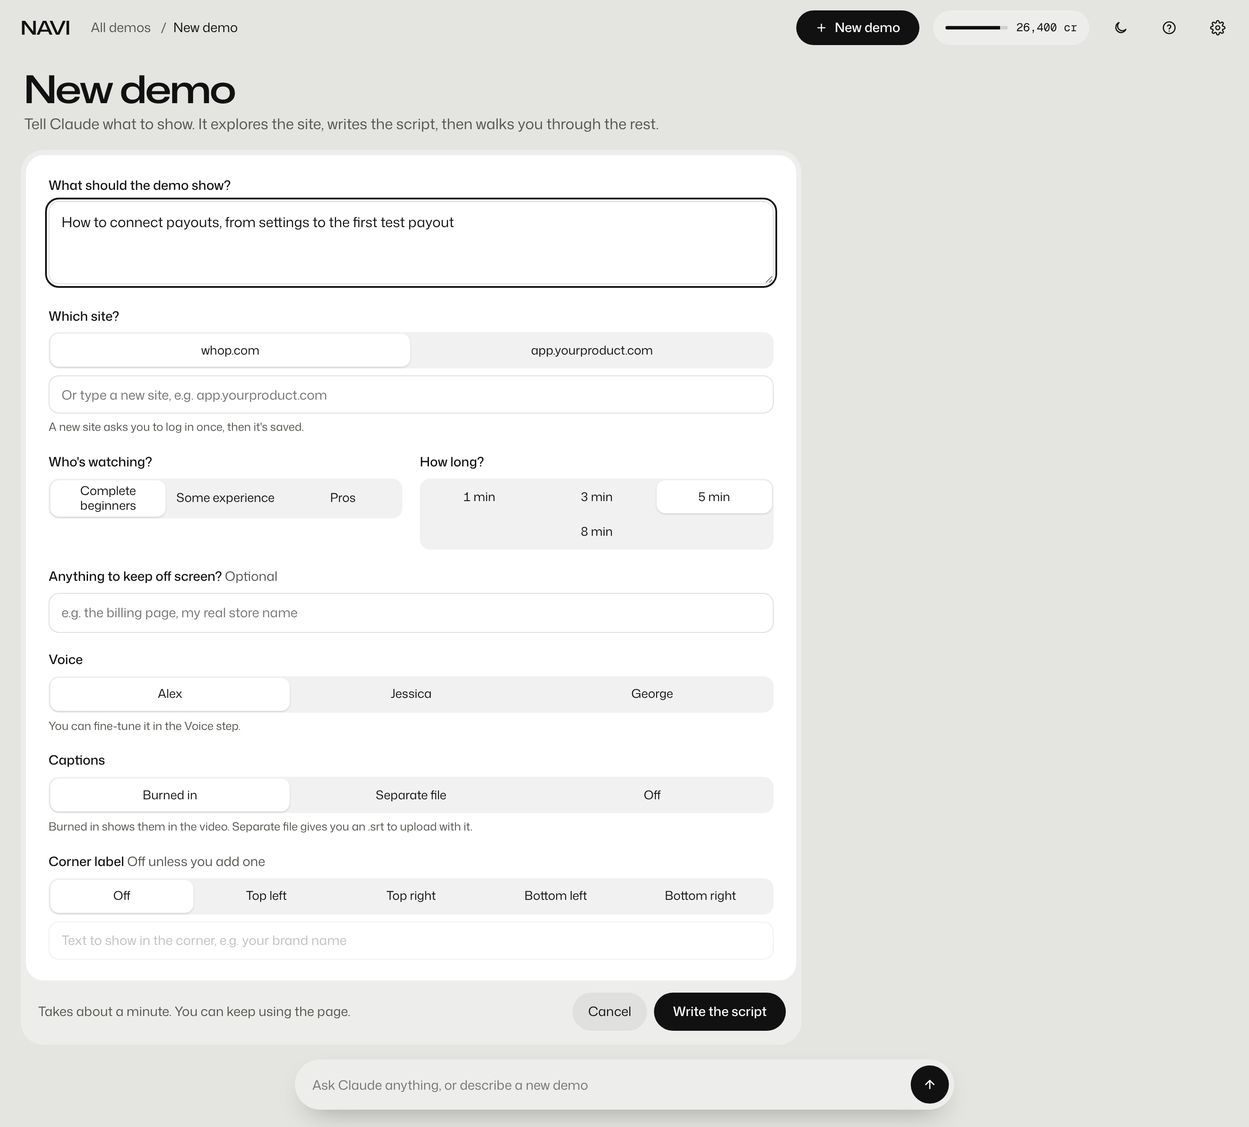
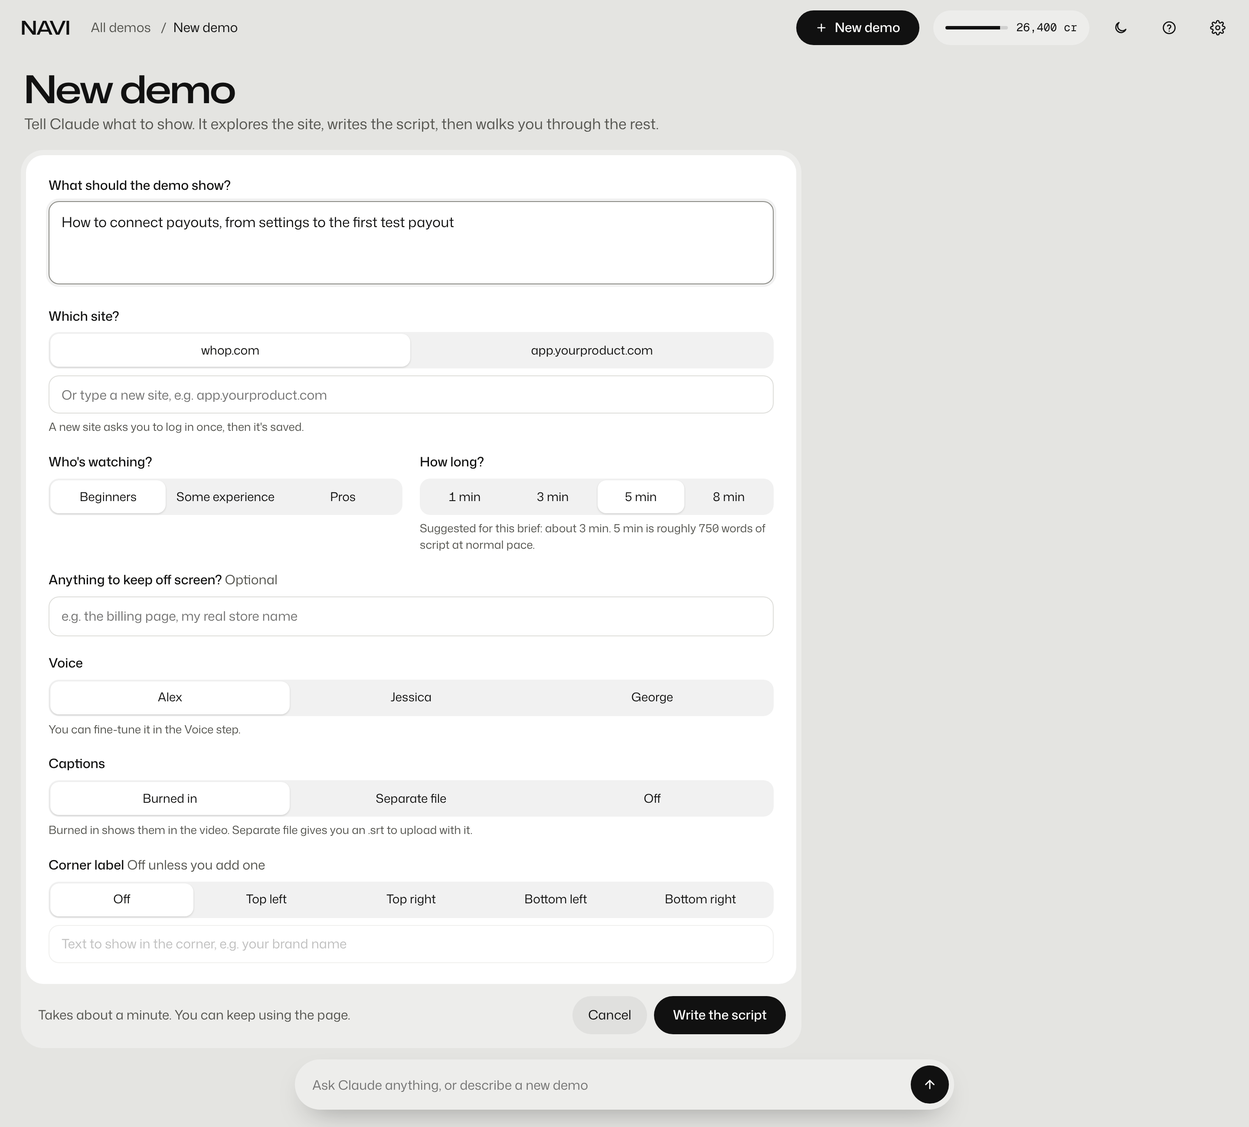
App: suggested length in the brief, length follows the pace slider, no white focus outlines or resize grip
Claude-Session: https://claude.ai/code/session_01BFv7MfEVZccWbSPoREnTz6

diff --git a/ui/app.js b/ui/app.js
@@ -87,12 +87,16 @@ class Component extends DCLogic {
     const markedSecs = Object.keys(D.notes || {}).filter((k) => D.notes[k].length);
     const unsure = (D.blurs || []).filter((b) => !b.s).length;
     const blurCount = 7 + Object.keys(st.shown).filter((k) => !st.shown[k]).length + st.hide.length;
+    const baseSec = [60, 180, this.total, 480][D.len] || this.total;
+    const lengthSec = Math.round(baseSec * 100 / v.pace);
+    const lengthText = this.fmt(lengthSec);
+    const paceText = (v.pace / 100).toFixed(2) + 'x';
     const kindName = { course: 'course walkthrough', saas: 'quick SaaS demo', tour: 'product tour' }[D.kind];
     const S = [
       { name: 'Script', sub: D.written ? '11 sections' : 'Writing…', title: 'Read the script', help: 'Left is what the voice says, with the ums and restarts that make it sound human. Right is what the captions show. Want a change? Type it in the bar below.', cta: 'Script looks right' },
       { name: 'Voice', sub: voicePretty, title: 'Pick the voice', help: 'Tap a face to pick it and hear it. The recommended settings are already on. Drag any slider to change how it sounds.', cta: 'Use ' + voicePretty },
       { name: 'Privacy', sub: blurCount + ' things blurred', title: 'Check what gets blurred', help: 'Blurring happens before recording, then every frame is checked again. Anything it isn’t sure about shows up in Review.', cta: D.recorded ? 'Blurs look right' : 'Blurs look right, record' },
-      { name: 'Record', sub: D.recorded ? 'Done, 4:56' : (st.cur === D.id && st.recPos < 11 && st.step === 3 ? 'Recording…' : 'Not yet'), title: D.recorded ? 'Recorded' : 'Recording', help: 'The browser runs the clicks while ' + voicePretty + ' talks. You can walk away.', cta: 'Watch the draft', second: D.recorded ? 'Record again' : '' },
+      { name: 'Record', sub: D.recorded ? 'Done, ' + lengthText : (st.cur === D.id && st.recPos < 11 && st.step === 3 ? 'Recording…' : 'Not yet'), title: D.recorded ? 'Recorded' : 'Recording', help: 'The browser runs the clicks while ' + voicePretty + ' talks. You can walk away.', cta: 'Watch the draft', second: D.recorded ? 'Record again' : '' },
       { name: 'Review', sub: marks ? marks + (marks === 1 ? ' mark' : ' marks') : (D.recorded ? 'No marks' : 'Not yet'), title: 'Watch the draft', help: 'Pause on anything that’s off and tap a reason, or say it your way. Only marked sections get redone.', cta: 'Approve and export', second: marks ? 'Redo marked sections' : '' },
       { name: 'Export', sub: D.exported ? 'MP4 + captions' : 'Not yet', title: 'Exported', help: 'Your video and captions are ready.', cta: 'Open folder', second: 'Back to all demos' }
     ];
@@ -148,7 +152,7 @@ class Component extends DCLogic {
       redo: { text: 'Redo ' + markedSecs.length + (markedSecs.length === 1 ? ' section' : ' sections') + ' for about ' + this.num(markedSecs.length * 420) + ' credits?', no: 'Cancel', yes: 'Redo them', act: () => { if (this.needKey()) return; this.spend(markedSecs.length * 420); this.patchDemo({ notes: {} }); this.setState({ confirm: null }); this.say('Redoing ' + markedSecs.length + (markedSecs.length === 1 ? ' section' : ' sections') + '. Draft 2 will be here in a few minutes.'); } }
     };
     const cf = st.confirm ? confirms[st.confirm] : null;
-    const foot = cf ? { text: cf.text, dot: 'var(--danger)', color: 'var(--ink)' } : (st.step === 4 ? { text: marks ? 'Redo ' + markedSecs.length + ' sections, about ' + this.num(markedSecs.length * 420) + ' credits' : (unsure ? unsure + ' blurs to check' : 'Nothing marked'), dot: marks || unsure ? '#E5484D' : 'var(--okDot)', color: 'var(--ink2)' } : { text: [D.written ? 'Approved' : 'Claude is writing the script', voicePretty + ', ' + kindName + ' settings', blurCount + ' things will be blurred', D.recorded ? 'Recorded 4:56' : 'Recording ' + st.recPos + ' of 11', '', D.exported ? 'Done' : ''][st.step], dot: 'var(--okDot)', color: 'var(--ink2)' });
+    const foot = cf ? { text: cf.text, dot: 'var(--danger)', color: 'var(--ink)' } : (st.step === 4 ? { text: marks ? 'Redo ' + markedSecs.length + ' sections, about ' + this.num(markedSecs.length * 420) + ' credits' : (unsure ? unsure + ' blurs to check' : 'Nothing marked'), dot: marks || unsure ? '#E5484D' : 'var(--okDot)', color: 'var(--ink2)' } : { text: [D.written ? 'Approved' : 'Claude is writing the script', voicePretty + ', ' + kindName + ' settings', blurCount + ' things will be blurred', D.recorded ? 'Recorded ' + lengthText : 'Recording ' + st.recPos + ' of 11', '', D.exported ? 'Done' : ''][st.step], dot: 'var(--okDot)', color: 'var(--ink2)' });
     const wsw = (done) => ({ bg: done ? 'var(--ink)' : 'transparent', fg: done ? 'var(--sheet)' : 'var(--ink)' });
     const w1 = wsw(st.keyRes === 'ok'), w2 = wsw(st.tools === 'done'), w3 = wsw(st.logged);
     const a = sw(st.caps), l = sw(st.lock), p = sw(st.p720);
@@ -159,7 +163,7 @@ class Component extends DCLogic {
       settings: () => { const prev = { vals: st.vals, hide: st.hide, shown: st.shown, defVoice: st.defVoice, defCap: st.defCap, defCorner: st.defCorner, defCornerText: st.defCornerText }; this.setState({ vals: Object.assign({}, this.presetVals.course), hide: [], shown: { email: false, phone: false, names: false, address: false, money: false, customers: false, counts: false, usage: true, prices: true, dates: true }, defVoice: 'alex', defCap: 'burn', defCorner: 'off', defCornerText: '' }); this.say('Settings reset', () => this.setState(prev)); }
     };
     const keyMsg = st.keyRes === 'ok' ? 'Connected. Starter plan, ' + this.num(st.credits) + ' of 30,000 credits left. Saved in your Mac’s Keychain.' : st.keyRes === 'bad' ? 'That key didn’t work. Check you copied all of it and it has text to speech access.' : '';
-    const videoCost = 4600; const leftAfter = Math.max(0, st.credits - (D.recorded ? 0 : videoCost));
+    const videoCost = Math.round(4600 * baseSec / this.total / 10) * 10; const leftAfter = Math.max(0, st.credits - (D.recorded ? 0 : videoCost));
     const chatClean = (m) => { let s = m.replace(/^(actually|no|ok|okay|wait)[,!.\s]*/i, '').replace(/^(make|do|change)( it| this)?( into)?( a)? demo (of|for|on|about)\s*/i, '').replace(/\s*instead[.!]*$/i, ''); return s.charAt(0).toUpperCase() + s.slice(1); };
     const dSel = (k) => ({ label: pretty(k), on: st.defVoice === k ? 'true' : 'false', pick: () => { this.setState({ defVoice: k }); this.say(pretty(k) + ' is now the default for new demos'); } });
     const capOpts = [['burn', 'Burned in'], ['file', 'Separate file'], ['off', 'Off']];
@@ -189,7 +193,7 @@ class Component extends DCLogic {
       bWhat: st.bWhat, onBWhat: (e) => this.setState({ bWhat: e.target.value }), bHide: st.bHide, onBHide: (e) => this.setState({ bHide: e.target.value }), bNew: st.bNew, onBNew: (e) => this.setState({ bNew: e.target.value }),
       briefEmpty: !st.bWhat.trim(),
       bSites: st.sites.map((s) => ({ label: s.u, on: !st.bNew.trim() && st.bSite === s.u ? 'true' : 'false', pick: () => this.setState({ bSite: s.u, bNew: '' }) })),
-      bWho: ['Complete beginners', 'Some experience', 'Pros'].map((s, i) => ({ label: s, on: st.bWho === i ? 'true' : 'false', pick: () => this.setState({ bWho: i }) })),
+      bWho: ['Beginners', 'Some experience', 'Pros'].map((s, i) => ({ label: s, on: st.bWho === i ? 'true' : 'false', pick: () => this.setState({ bWho: i }) })),
       bLen: ['1 min', '3 min', '5 min', '8 min'].map((s, i) => ({ label: s, on: st.bLen === i ? 'true' : 'false', pick: () => this.setState({ bLen: i }) })),
       bVoices: st.mine.map((k) => ({ label: pretty(k), on: st.bVoice === k ? 'true' : 'false', pick: () => this.setState({ bVoice: k }) })),
       bCaps: segOf(capOpts, st.bCap, (x) => this.setState({ bCap: x })),
@@ -203,6 +207,9 @@ class Component extends DCLogic {
       defCaps: segOf(capOpts, st.defCap, (x) => this.setState({ defCap: x })),
       defCorner: segOf(posOpts, st.defCorner, (x) => this.setState({ defCorner: x })),
       defCornerText: st.defCornerText, onDefCornerText: (e) => this.setState({ defCornerText: e.target.value }), defCornerOff: st.defCorner === 'off', defCornerOp: st.defCorner === 'off' ? 0.45 : 1,
+      lengthText: lengthText, paceText: paceText,
+      scriptLenLine: this.secs.length + ' sections, about ' + lengthText + ' at ' + paceText + ' pace. Drag Pace in the Voice step and this length changes with it.',
+      lenHint: (() => { const w = st.bWhat.trim(); if (!w) return 'Type what to show and Claude suggests a length.'; const steps = 1 + (w.match(/,| then | and /gi) || []).length; const mins = Math.max(1, steps + (st.bWho === 0 ? 1 : st.bWho === 2 ? -1 : 0)); const opts = [1, 3, 5, 8]; let best = 0; opts.forEach((o, i) => { if (Math.abs(o - mins) < Math.abs(opts[best] - mins)) best = i; }); const chosen = opts[st.bLen]; return 'Suggested for this brief: about ' + opts[best] + ' min. ' + chosen + ' min is roughly ' + this.num(chosen * 150) + ' words of script at normal pace.'; })(),
       cancelBrief: () => this.setState({ screen: st.editing ? 'demo' : 'home' }),
       submitBrief: () => {
         const w = st.bWhat.trim(); if (!w) return; const t = w.length > 34 ? w.slice(0, 32).replace(/\s+\S*$/, '') + '…' : w; const site = st.bNew.trim() || st.bSite || 'whop.com';
@@ -246,7 +253,7 @@ class Component extends DCLogic {
       tier2: [row('email', 'Email addresses'), row('phone', 'Phone numbers'), row('names', 'Real names and profile photos'), row('address', 'Addresses'), row('money', 'Revenue and money figures'), row('customers', 'Customer details'), row('counts', 'Follower and member counts')],
       tier3: [row('usage', 'Usage stats, like token usage'), row('prices', 'Prices on public pages'), row('dates', 'Dates')],
       recBadge: D.recorded ? 'Recorded' : 'Recording live', recBadgeDot: D.recorded ? 'var(--okDot)' : '#FF5A4E',
-      recHead: D.recorded ? 'All 11 sections recorded' : 'Section ' + Math.min(11, st.recPos + 1) + ' of 11', recLeft: D.recorded ? '4:56' : 'about ' + Math.max(1, Math.ceil((11 - st.recPos) * 0.3)) + ' min left',
+      recHead: D.recorded ? 'All 11 sections recorded' : 'Section ' + Math.min(11, st.recPos + 1) + ' of 11', recLeft: D.recorded ? lengthText : 'about ' + Math.max(1, Math.ceil((11 - st.recPos) * 0.3)) + ' min left',
       recPct: (D.recorded ? 100 : st.recPos / 11 * 100) + '%', recNote: D.recorded ? 'Want a fresh take? Record again redoes every section.' : 'You can close this page. Claude will tell you in chat when the draft is ready.',
       recRows: this.secs.map((s, i) => { const done = D.recorded || i < st.recPos; const now = !D.recorded && i === st.recPos; return { n: s.n, mark: done ? '✓' : now ? '•' : '', c: done || now ? 'var(--ink)' : 'var(--ink2)' }; }),
       revSecs: revSecs, noteDraft: st.noteDraft, onNote: (e) => this.setState({ noteDraft: e.target.value }),
@@ -258,7 +265,7 @@ class Component extends DCLogic {
       togglePlayer: () => { if (st.player) { this.stop('player'); this.setState({ player: false }); return; } this.setState({ player: true }); this.every('player', 250, () => { const t = this.state.revT + 1; if (t >= this.total) { this.stop('player'); this.setState({ player: false, revT: this.total }); return; } let s = 0; for (let i = 0; i < this.secs.length; i++) if (t >= this.starts[i]) s = i; this.setState({ revT: t, sel: s }); }); },
       blurs: (D.blurs || []).map((b) => ({ t: b.t, what: b.what, unsure: !b.s, done: !!b.s, status: b.s === 'keep' ? 'Kept blurred' : 'Shown', keep: () => this.patchDemo({ blurs: D.blurs.map((x) => x.id === b.id ? Object.assign({}, x, { s: 'keep' }) : x) }), show: () => this.patchDemo({ blurs: D.blurs.map((x) => x.id === b.id ? Object.assign({}, x, { s: 'show' }) : x) }), undo: () => this.patchDemo({ blurs: D.blurs.map((x) => x.id === b.id ? Object.assign({}, x, { s: '' }) : x) }) })),
       autoBlurNote: (blurCount - 1) + ' other kinds of thing were blurred automatically wherever they appeared.',
-      files: [{ n: base + '.mp4', s: '1080p, 4:58' + (dCap === 'burn' ? ', captions in' : '') }].concat(dCap !== 'off' ? [{ n: base + '.srt', s: 'captions' }] : []).concat([{ n: base + '.txt', s: 'transcript' }]).concat(st.p720 ? [{ n: base + ' (720p).mp4', s: 'preview' }] : []),
+      files: [{ n: base + '.mp4', s: '1080p, ' + lengthText + (dCap === 'burn' ? ', captions in' : '') }].concat(dCap !== 'off' ? [{ n: base + '.srt', s: 'captions' }] : []).concat([{ n: base + '.txt', s: 'transcript' }]).concat(st.p720 ? [{ n: base + ' (720p).mp4', s: 'preview' }] : []),
       p720On: p.onStr, p720Track: p.track, p720X: p.x, toggle720: () => this.setState({ p720: !st.p720 }),
       exportNote: 'Captions ' + capName[dCap] + (dCorner !== 'off' && dCornerText.trim() ? ', corner label \u201c' + dCornerText.trim() + '\u201d' : ', no corner label') + '. Saved in your Videos folder. Your marks on this demo were used to tune ' + voicePretty + '’s defaults for next time.',
       key: st.key, onKey: (e) => this.setState({ key: e.target.value, keyRes: null }), keyType: st.keyType, keyTypeLabel: st.keyType === 'password' ? 'Show' : 'Hide', toggleKeyType: () => this.setState({ keyType: st.keyType === 'password' ? 'text' : 'password' }),

diff --git a/ui/index.html b/ui/index.html
@@ -12,15 +12,22 @@
 [v-cloak]{display:none}
 
 body{margin:0}
-.t-light{--ground:#E4E4E1;--tray:#EDEDEB;--sheet:#FFFFFF;--ink:#111111;--ink2:#55554F;--line:#DEDEDA;--wash:rgba(17,17,17,0.06);--fill:rgba(17,17,17,0.13);--ok:#1D7A4A;--okDot:#1D9E5A;--warnBg:#FFF1D9;--warnInk:#6B4300;--markBg:#FFE3DC;--markInk:#9A2410;--danger:#B3261E;--screen:#0E0E10;color-scheme:light}
-.t-dark{--ground:#0C0C0E;--tray:#17171A;--sheet:#212125;--ink:#F2F2F0;--ink2:#AAAAA3;--line:#303035;--wash:rgba(242,242,240,0.07);--fill:rgba(242,242,240,0.15);--ok:#7FD9A2;--okDot:#3CCB7F;--warnBg:#3A2C10;--warnInk:#FFD892;--markBg:#3E1F18;--markInk:#FFB4A2;--danger:#FF8A80;--screen:#000000;color-scheme:dark}
+.t-light{--ground:#E4E4E1;--tray:#EDEDEB;--sheet:#FFFFFF;--ink:#111111;--ink2:#55554F;--line:#DEDEDA;--wash:rgba(17,17,17,0.06);--fill:rgba(17,17,17,0.13);--ok:#1D7A4A;--okDot:#1D9E5A;--warnBg:#FFF1D9;--warnInk:#6B4300;--markBg:#FFE3DC;--markInk:#9A2410;--danger:#B3261E;--screen:#0E0E10;--focus:#8A8A84;color-scheme:light}
+.t-dark{--ground:#0C0C0E;--tray:#17171A;--sheet:#212125;--ink:#F2F2F0;--ink2:#AAAAA3;--line:#303035;--wash:rgba(242,242,240,0.07);--fill:rgba(242,242,240,0.15);--ok:#7FD9A2;--okDot:#3CCB7F;--warnBg:#3A2C10;--warnInk:#FFD892;--markBg:#3E1F18;--markInk:#FFB4A2;--danger:#FF8A80;--screen:#000000;--focus:#6E6E76;color-scheme:dark}
 .wide{font-family:'Mona Sans',sans-serif;font-stretch:125%;font-weight:560;letter-spacing:-0.02em}
 .mono{font-family:'Geist Mono',ui-monospace,monospace;font-size:12px}
 button,input,textarea{font:inherit;color:inherit}
 button{cursor:pointer;transition:transform 90ms cubic-bezier(.22,1,.36,1),background-color 180ms ease,box-shadow 180ms ease,opacity 180ms ease}
 button:active{transform:scale(0.97)}
 button[disabled]{cursor:not-allowed}
-:focus-visible{outline:2px solid var(--ink);outline-offset:2px}
+:focus{outline:none}
+:focus-visible{outline:2px solid var(--focus);outline-offset:2px}
+input:focus-visible,textarea:focus-visible{outline:none}
+input,textarea{transition:border-color 160ms ease,box-shadow 160ms ease}
+input:focus,textarea:focus{border-color:var(--focus)!important;box-shadow:0 0 0 3px var(--wash)}
+#chatin:focus{box-shadow:none}
+textarea{resize:none}
+::selection{background:var(--fill)}
 .tray{background:var(--tray);border-radius:26px;padding:6px}
 .sheet{background:var(--sheet);border-radius:20px}
 .foot{display:flex;align-items:center;justify-content:space-between;gap:12px;padding:12px 12px 8px 14px;min-height:48px}
@@ -41,7 +48,7 @@ button[disabled]{cursor:not-allowed}
 .bar .bv{position:absolute;right:14px;top:50%;transform:translateY(-50%);width:92px;text-align:right;white-space:nowrap;pointer-events:none}
 .bar .rec{position:absolute;top:8px;bottom:8px;width:2px;margin-left:-1px;background:var(--ink);opacity:0.35;pointer-events:none}
 .bar input{position:absolute;inset:0;width:100%;height:100%;margin:0;opacity:0;pointer-events:none}
-.bar:focus-within{outline:2px solid var(--ink);outline-offset:2px}
+.bar:focus-within{outline:2px solid var(--focus);outline-offset:2px}
 .sw{width:46px;height:28px;border-radius:14px;border:0;padding:3px;display:inline-flex;flex:none}
 .sw span{width:22px;height:22px;border-radius:11px;background:#FFFFFF;transition:transform 220ms cubic-bezier(.28,1.4,.36,1)}
 .chip{display:inline-flex;align-items:center;gap:6px;height:32px;padding:0 12px;border-radius:999px;background:var(--wash);font-size:14px}
@@ -214,6 +221,7 @@ button[disabled]{cursor:not-allowed}
 </div>
 </div>
 <div v-if="scriptReady" style="display: contents">
+<p style="margin: -8px 0 16px; padding: 10px 14px; border-radius: 12px; background: var(--wash)">{{scriptLenLine}}</p>
 <div style="display: grid; grid-template-columns: 70px 1fr 1fr; gap: 0 18px">
 <span class="mono" style="color: var(--ink2); padding-bottom: 8px">Time</span><span style="font-weight: 500; padding-bottom: 8px">{{voiceName}} says</span><span style="font-weight: 500; padding-bottom: 8px">Captions show</span>
 <div v-for="r in script" style="display: contents">
@@ -285,6 +293,7 @@ button[disabled]{cursor:not-allowed}
 </div>
 </div>
 <div class="tray"><div class="sheet" style="padding: 14px 16px">
+<div style="display: flex; justify-content: space-between; margin-bottom: 4px"><span>Video length</span><span class="mono" style="font-size: 13px">about {{lengthText}} at {{paceText}}</span></div>
 <div style="display: flex; justify-content: space-between"><span>This video</span><span class="mono" style="font-size: 13px">~{{videoCostText}} cr</span></div>
 <div style="display: flex; justify-content: space-between; margin-top: 4px; color: var(--ink2)"><span>Left after</span><span class="mono" style="font-size: 13px">{{leftAfterText}} of 30,000</span></div>
 <div style="display: flex; gap: 2px; height: 6px; margin-top: 10px"><span :style="'width: ' + (usedPct) + '; background: var(--ink); border-radius: 3px'"></span><span :style="'width: ' + (thisPct) + '; background: ' + (voiceColor) + '; border-radius: 3px'"></span><span style="flex: 1; background: var(--wash); border-radius: 3px"></span></div>
@@ -358,7 +367,7 @@ button[disabled]{cursor:not-allowed}
 <div v-for="t in ticks" style="display: contents"><span aria-hidden="true" :style="'position: absolute; top: 8px; left: ' + (t) + '; width: 1px; height: 12px; background: var(--ink2); pointer-events: none'"></span></div>
 <div v-for="m in markPins" style="display: contents"><span aria-hidden="true" :style="'position: absolute; top: 2px; left: ' + (m) + '; width: 10px; height: 10px; margin-left: -5px; border-radius: 5px; background: #E5484D; pointer-events: none'"></span></div>
 </div>
-<span class="mono" style="font-size: 13px; color: var(--ink2)">4:56</span>
+<span class="mono" style="font-size: 13px; color: var(--ink2)">{{lengthText}}</span>
 </div>
 <div style="margin-top: 16px; padding: 12px 14px; border-radius: 14px; background: var(--wash)">
 <div style="display: flex; justify-content: space-between; align-items: center; gap: 12px"><span style="font-weight: 500">On screen</span><span style="font-size: 13px; color: var(--ink2)">Free to change. Only the render changes, no credits.</span></div>
@@ -402,7 +411,7 @@ button[disabled]{cursor:not-allowed}
 
 <div v-if="st5" style="display: contents">
 <div style="display: grid; grid-template-columns: minmax(0, 1.2fr) minmax(0, 1fr); gap: 18px">
-<div style="position: relative; aspect-ratio: 16 / 9; border-radius: 16px; overflow: hidden"><img :src="(demoCover)" alt="" style="width: 100%; height: 100%; object-fit: cover"><span style="position: absolute; left: 14px; bottom: 14px; background: rgba(17,17,17,0.82); color: #FFF; padding: 6px 12px; border-radius: 999px; font-size: 13px">Final, 4:58</span></div>
+<div style="position: relative; aspect-ratio: 16 / 9; border-radius: 16px; overflow: hidden"><img :src="(demoCover)" alt="" style="width: 100%; height: 100%; object-fit: cover"><span style="position: absolute; left: 14px; bottom: 14px; background: rgba(17,17,17,0.82); color: #FFF; padding: 6px 12px; border-radius: 999px; font-size: 13px">Final, {{lengthText}}</span></div>
 <div>
 <div v-for="f in files" style="display: contents"><div class="row"><span class="dot" style="background: var(--okDot)"></span><span style="flex: 1; min-width: 0; overflow: hidden; text-overflow: ellipsis; white-space: nowrap">{{f.n}}</span><span class="mono" style="color: var(--ink2)">{{f.s}}</span></div></div>
 <div class="row"><span id="p720" style="flex: 1">Also make a small 720p preview</span><button type="button" class="sw" role="switch" :aria-checked="(p720On)" aria-labelledby="p720" @click="toggle720($event)" :style="'background: ' + (p720Track)"><span :style="'transform: translateX(' + (p720X) + ')'"></span></button></div>
@@ -433,14 +442,14 @@ button[disabled]{cursor:not-allowed}
 <p style="margin: 0 4px 18px; color: var(--ink2); font-size: 17px">Tell Claude what to show. It explores the site, writes the script, then walks you through the rest.</p>
 <div class="tray">
 <div class="sheet" style="padding: 24px 26px; display: flex; flex-direction: column; gap: 20px">
-<div><label for="bw" style="display: block; font-weight: 500; margin-bottom: 8px">What should the demo show?</label><textarea id="bw" rows="3" :value="(bWhat)" @input="onBWhat($event)" @change="onBWhat($event)" placeholder="e.g. How to build a course in Whop, from creating the whop to checking it on a phone" style="width: 100%; box-sizing: border-box; border-radius: 12px; border: 1px solid var(--line); background: var(--sheet); padding: 12px 14px; font-size: 16px; resize: vertical"></textarea></div>
+<div><label for="bw" style="display: block; font-weight: 500; margin-bottom: 8px">What should the demo show?</label><textarea id="bw" rows="3" :value="(bWhat)" @input="onBWhat($event)" @change="onBWhat($event)" placeholder="e.g. How to build a course in Whop, from creating the whop to checking it on a phone" style="width: 100%; box-sizing: border-box; border-radius: 12px; border: 1px solid var(--line); background: var(--sheet); padding: 12px 14px; font-size: 16px; resize: none"></textarea></div>
 <div><div style="font-weight: 500; margin-bottom: 8px">Which site?</div>
 <div class="seg" role="group" aria-label="Saved sites"><div v-for="o in bSites" style="display: contents"><button type="button" :aria-pressed="(o.on)" @click="o.pick($event)">{{o.label}}</button></div></div>
 <div style="display: flex; gap: 8px; margin-top: 8px"><label for="bns" class="sr">Or a new site</label><input id="bns" type="text" :value="(bNew)" @input="onBNew($event)" @change="onBNew($event)" placeholder="Or type a new site, e.g. app.yourproduct.com" style="flex: 1; min-width: 0; height: 44px; border-radius: 12px; border: 1px solid var(--line); background: var(--sheet); padding: 0 14px; box-sizing: border-box"></div>
 <div style="font-size: 13px; color: var(--ink2); margin-top: 6px">A new site asks you to log in once, then it's saved.</div></div>
 <div style="display: grid; grid-template-columns: repeat(auto-fit, minmax(min(300px, 100%), 1fr)); gap: 20px">
-<div><div style="font-weight: 500; margin-bottom: 8px">Who's watching?</div><div class="seg" role="group" aria-label="Who's watching"><div v-for="o in bWho" style="display: contents"><button type="button" :aria-pressed="(o.on)" @click="o.pick($event)">{{o.label}}</button></div></div></div>
-<div><div style="font-weight: 500; margin-bottom: 8px">How long?</div><div class="seg" role="group" aria-label="How long"><div v-for="o in bLen" style="display: contents"><button type="button" :aria-pressed="(o.on)" @click="o.pick($event)">{{o.label}}</button></div></div></div>
+<div><div style="font-weight: 500; margin-bottom: 8px">Who's watching?</div><div class="seg" role="group" aria-label="Who's watching"><div v-for="o in bWho" style="display: contents"><button type="button" :aria-pressed="(o.on)" @click="o.pick($event)" style="min-width: 0">{{o.label}}</button></div></div></div>
+<div><div style="font-weight: 500; margin-bottom: 8px">How long?</div><div class="seg" role="group" aria-label="How long"><div v-for="o in bLen" style="display: contents"><button type="button" :aria-pressed="(o.on)" @click="o.pick($event)" style="min-width: 0">{{o.label}}</button></div></div><div style="font-size: 13px; color: var(--ink2); margin-top: 6px; min-height: 38px">{{lenHint}}</div></div>
 </div>
 <div><label for="bh" style="display: block; font-weight: 500; margin-bottom: 8px">Anything to keep off screen? <span style="font-weight: 400; color: var(--ink2)">Optional</span></label><input id="bh" type="text" :value="(bHide)" @input="onBHide($event)" @change="onBHide($event)" placeholder="e.g. the billing page, my real store name" style="width: 100%; height: 46px; box-sizing: border-box; border-radius: 12px; border: 1px solid var(--line); background: var(--sheet); padding: 0 14px"></div>
 <div><div style="font-weight: 500; margin-bottom: 8px">Voice</div><div class="seg" role="group" aria-label="Voice"><div v-for="o in bVoices" style="display: contents"><button type="button" :aria-pressed="(o.on)" @click="o.pick($event)">{{o.label}}</button></div></div><div style="font-size: 13px; color: var(--ink2); margin-top: 6px">You can fine-tune it in the Voice step.</div></div>
